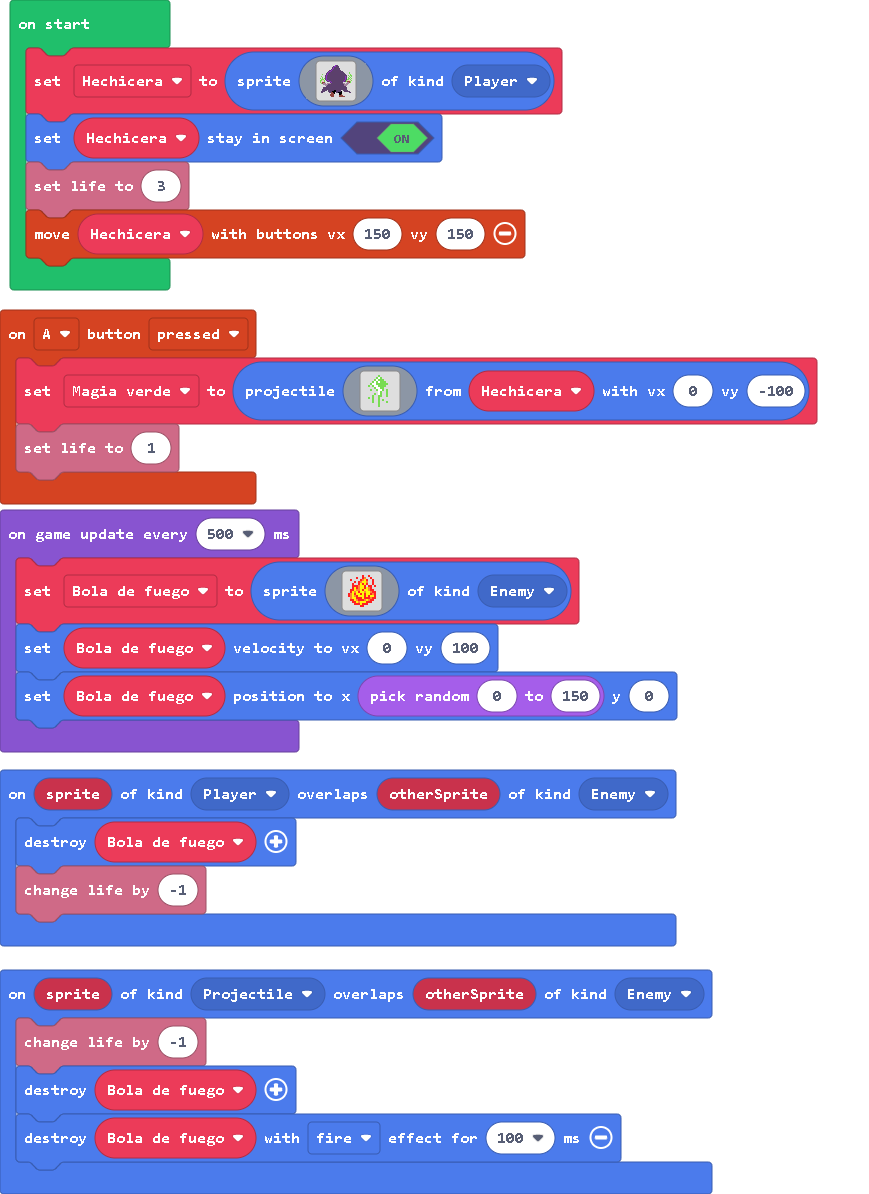
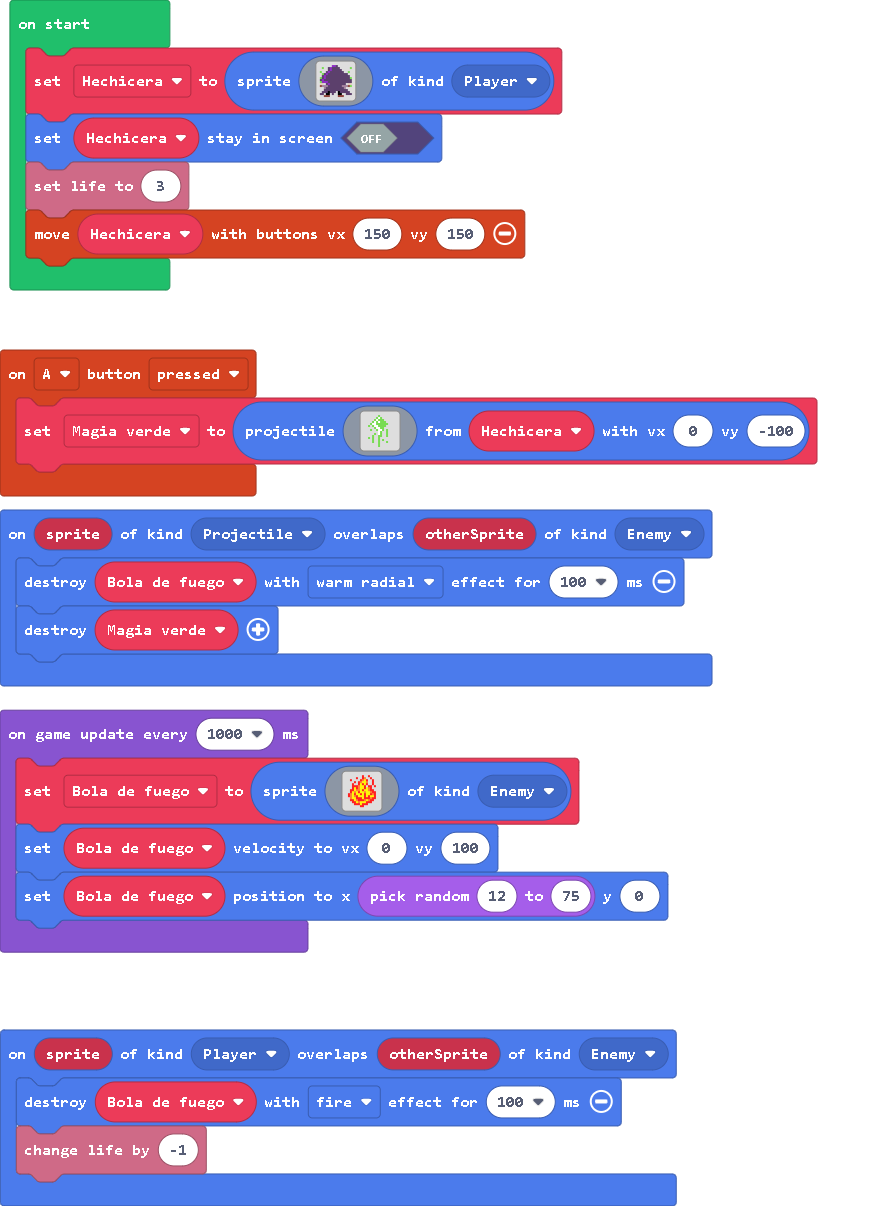
2

diff --git a/tilemap.g.ts b/tilemap.g.ts
@@ -1,0 +1,55 @@
+// Auto-generated code. Do not edit.
+namespace myTiles {
+    //% fixedInstance jres blockIdentity=images._tile
+    export const transparency16 = image.ofBuffer(hex``);
+
+    helpers._registerFactory("tilemap", function(name: string) {
+        switch(helpers.stringTrim(name)) {
+            case "Background image":
[1 lines of base64/hex data omitted]
+................................
+................................
+................................
+................................
+................................
+................................
+................................
+................................
+................................
+................................
+................................
+................................
+................................
+................................
+................................
+................................
+................................
+................................
+................................
+................................
+................................
+................................
+................................
+................................
+................................
+................................
+................................
+................................
+................................
+................................
+................................
+................................
+`, [myTiles.transparency16,sprites.dungeon.greenOuterNorthWest,sprites.dungeon.greenOuterNorth0,sprites.dungeon.greenOuterNorthEast,sprites.dungeon.greenOuterEast0,sprites.dungeon.greenOuterWest1,sprites.dungeon.greenOuterNorth2,sprites.dungeon.greenOuterEast2,sprites.dungeon.greenOuterWest2,sprites.dungeon.stairSouth,sprites.dungeon.floorLight2,sprites.dungeon.floorDarkDiamond,sprites.dungeon.floorDark3,sprites.dungeon.floorDark5,sprites.dungeon.floorDark4,sprites.castle.tilePath2,sprites.castle.tilePath5,sprites.castle.tilePath4,sprites.castle.tilePath6,sprites.builtin.forestTiles0,sprites.castle.tileGrass1,sprites.castle.rock1,sprites.dungeon.hazardLava0,sprites.dungeon.greenOuterSouthEast,sprites.dungeon.greenOuterSouth0,sprites.dungeon.greenOuterSouthWest], TileScale.Sixteen);
+        }
+        return null;
+    })
+
+    helpers._registerFactory("tile", function(name: string) {
+        switch(helpers.stringTrim(name)) {
+            case "transparency16":return transparency16;
+        }
+        return null;
+    })
+
+}
+// Auto-generated code. Do not edit.

diff --git a/images.g.ts b/images.g.ts
@@ -73,41 +73,6 @@ namespace myImages {
 ..........2222.....2222.........
 ...........222.....222222.......
 `;
-            case "image2":
-            case "M_Atras":return img`
-...............acc..............
-.............caaccc.............
-............caccccc.............
-............cacccccc............
-...........caccccccc............
-.........ccaccccccccc...........
-........caacccccccccccc.........
-.......caccccccccccccccc.....7..
-......caccccccccccccccccc....7..
-..7...cacccccccccccccccccc....7.
-.....cacccccccccccccccccccc.7.77
-.7...caccccccccccccccccccac..7.7
-..7..caccccccccccccccccccac.7.7.
-7.7.7caccccccccccccccccccac.77.7
-.777.caccccccccccccccccccac77d7.
-77dd7.caacccccccccccccccac7dddd7
-7ddd7..ccaaccccccccccccacc7eee7.
-7deee.....caccccccccccc....bbe7.
-.7ebbb.bbbbccccccccccccbb.bbb...
-...bbbbbccccccccccccccccbbbb....
-.....bbcccccccccccccccccbbb.....
-......cccccccccccccccccccc......
-...cccccccccccccccccccccccc.....
-...cccccccccccccccccccccccc.....
-..ccccccccccccccccccccccccc.....
-..ccccc.ccccccffccccc..ccccc....
-.cccc...ccccffffcccccf..cccccc..
-.cc......cceeff.ccffff.......cc.
-...........eeef....fff..........
-..........eeee.....ffe..........
-..........eeee.....eeee.........
-...........eee.....eeeeee.......
-`;
             case "+QqXA9[W[|O{K$/5AK~[":
             case "Magia verde":return img`
 . . . . . . . 7 . . . . . . . . 
@@ -145,6 +110,25 @@ namespace myImages {
 . . . 2 2 5 4 5 5 5 2 2 2 . . . 
 . . . . 2 2 2 5 2 2 2 . . . . . 
 . . . . . . . 2 2 . . . . . . . 
+`;
+            case "image2":
+            case "M_Atras":return img`
+. . . . . . a a c . . . . . . . 
+. 7 . . c a c c c c . . . . . 7 
+. . . . c a c c c c c . . . . . 
+7 . . c a c c c c c c c . . 7 . 
+. 7 c a c c c c c c c c c c . . 
+. c a c c c c c c c c c c c c . 
+7 c a c c c c c c c c c c c c 7 
+c a c c c c c c c c c c c c c c 
+7 a a a c c c c c c c c c c c c 
+d d . c a c c c c c c c c . d d 
+e b b b c c c c c c c b b b e 7 
+. . b c c c c c c c c c b . . . 
+. . c c c c c c c c c c c c . . 
+. c c c f c c c . f c c c c c . 
+c c . f f . c . . f f . . c c c 
+. . e e e . . . . e e e . . . . 
 `;
         }
         return null;

diff --git a/main.ts b/main.ts
@@ -1,25 +1,23 @@
 controller.A.onEvent(ControllerButtonEvent.Pressed, function () {
     Magia_verde = sprites.createProjectileFromSprite(assets.image`Magia verde`, Hechicera, 0, -100)
-    info.setLife(1)
 })
 sprites.onOverlap(SpriteKind.Projectile, SpriteKind.Enemy, function (sprite, otherSprite) {
-    info.changeLifeBy(-1)
-    Bola_de_fuego.destroy()
-    Bola_de_fuego.destroy(effects.fire, 100)
+    Bola_de_fuego.destroy(effects.warmRadial, 100)
+    Magia_verde.destroy()
 })
 sprites.onOverlap(SpriteKind.Player, SpriteKind.Enemy, function (sprite, otherSprite) {
-    Bola_de_fuego.destroy()
+    Bola_de_fuego.destroy(effects.fire, 100)
     info.changeLifeBy(-1)
 })
 let Bola_de_fuego: Sprite = null
 let Magia_verde: Sprite = null
 let Hechicera: Sprite = null
 Hechicera = sprites.create(assets.image`M_Atras`, SpriteKind.Player)
-Hechicera.setStayInScreen(true)
+Hechicera.setStayInScreen(false)
 info.setLife(3)
 controller.moveSprite(Hechicera, 150, 150)
-game.onUpdateInterval(500, function () {
+game.onUpdateInterval(1000, function () {
     Bola_de_fuego = sprites.create(assets.image`Bola de fuego`, SpriteKind.Enemy)
     Bola_de_fuego.setVelocity(0, 100)
-    Bola_de_fuego.setPosition(randint(0, 150), 0)
+    Bola_de_fuego.setPosition(randint(12, 75), 0)
 })
